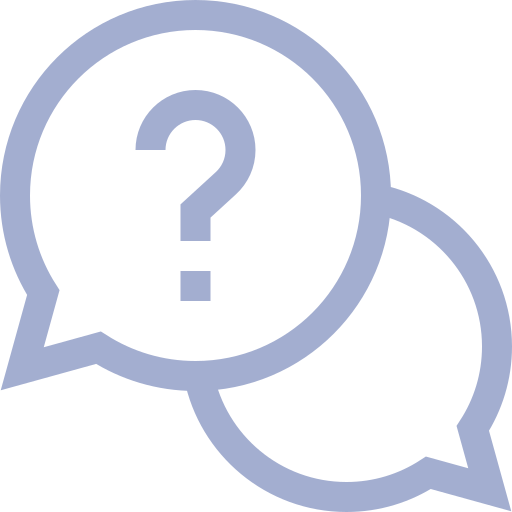
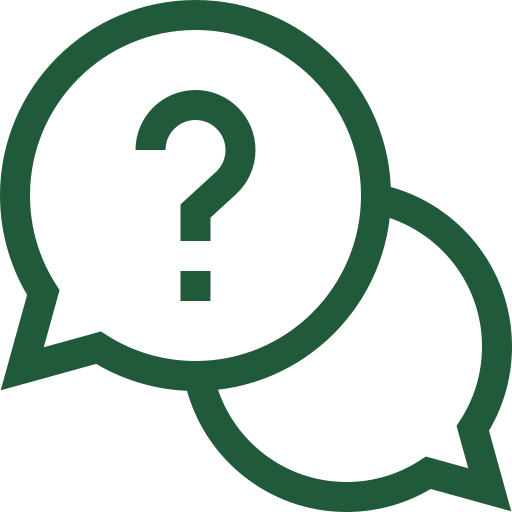
adicionando novo icone de suporte

Changed region(s): [[0.0, 0.0, 1.0, 1.0], [0.25, 0.1562, 0.5, 0.4688], [0.3438, 0.5312, 0.4375, 0.5938]]

diff --git a/Empresa/Site/public/historico.html b/Empresa/Site/public/historico.html
@@ -41,6 +41,7 @@
           <span>Logout</span>
         </a>
       </li>
+      <a href="https://sptech-team-mxiubiuw.atlassian.net/servicedesk/customer/portal/1" target="_blank"><img class="supportIcon" src="./imgs/help.png" alt="icone_suporte"></a>
     </ul>
     <div class="pageDashboard">
       <ul class="title">

diff --git a/Empresa/Site/public/dashboard.html b/Empresa/Site/public/dashboard.html
@@ -85,6 +85,7 @@
     <script
         src="https://cdn.jsdelivr.net/npm/chartjs-plugin-annotation@2.1.0/dist/chartjs-plugin-annotation.min.js"></script>
     <script src="../scripts/script-dashboard.js"></script>
+    <div></div>
 </body>
 
 </html>
